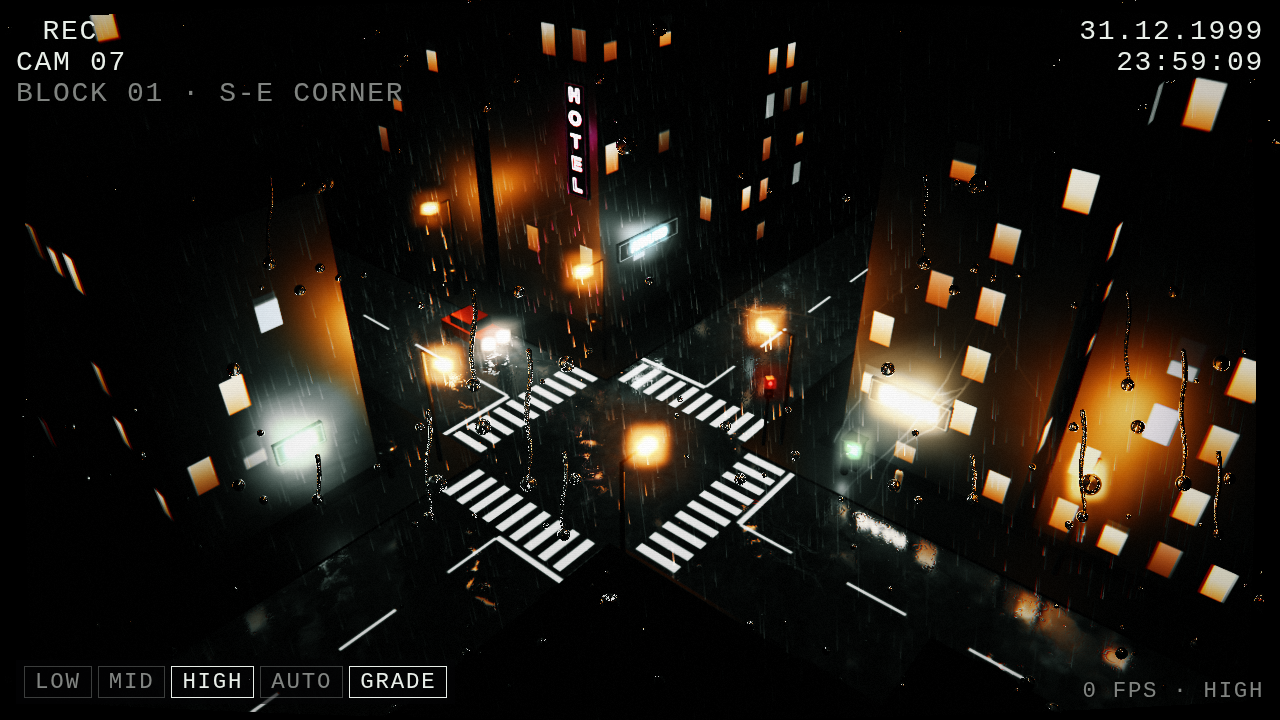
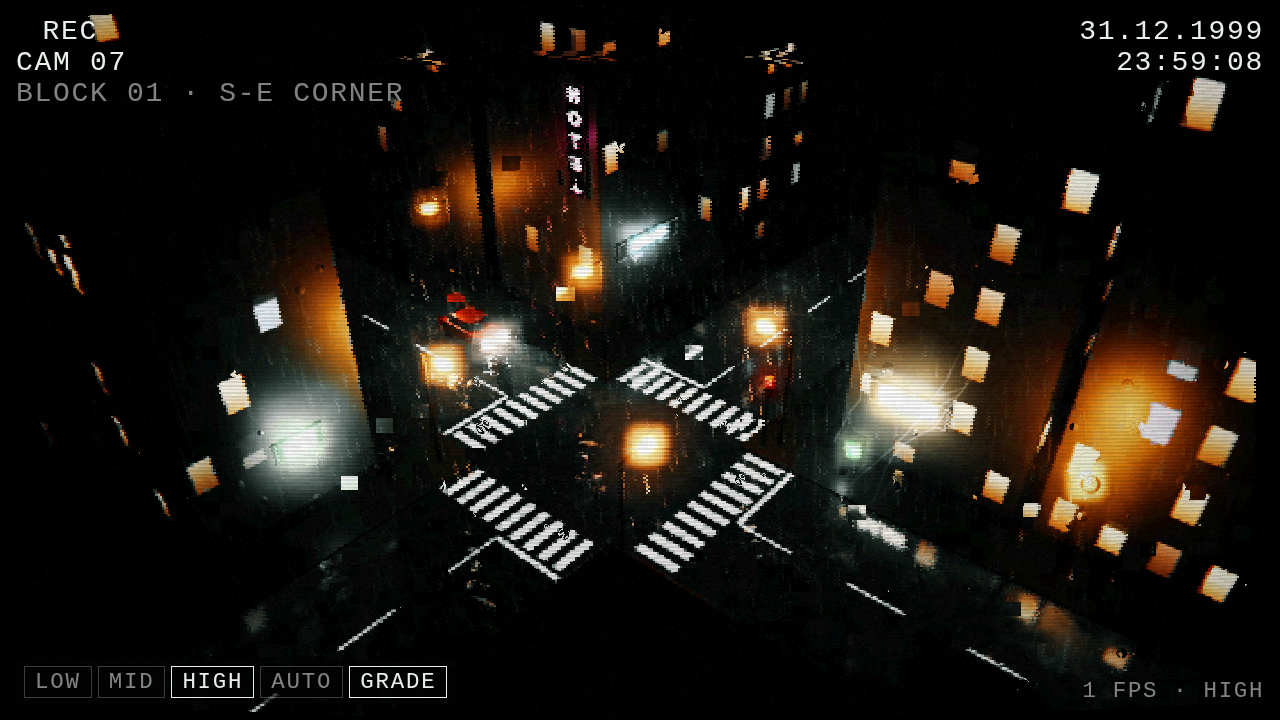
CCTV recording look: interlacing, compression, 12.5 fps capture
- Camera pass samples a low-resolution interlaced signal with field
  offsets, quarter-resolution chroma, 8x8 block banding, displaced
  macroblocks and occasional sync tears
- The world advances only when the camera takes a frame (12.5 fps)
- Recording settings live in each camera's lens profile
- .gitignore for .DS_Store

Claude-Session: https://claude.ai/code/session_01EPP8rjPqCxLECawcDBtEjj

diff --git a/client/src/engine/pipeline.js b/client/src/engine/pipeline.js
@@ -27,6 +27,12 @@ const CameraShader = {
     uDrops: { value: 1.0 },
     uNoise: { value: 0.35 },
     uGrade: { value: 1.0 },
+    // The recording: resolution, interlaced field, compression, glitches.
+    uVideoRes: { value: new THREE.Vector2(640, 400) },
+    uField: { value: 0 },
+    uFrame: { value: 0 },
+    uCompress: { value: 0.8 },
+    uGlitch: { value: 1.0 },
   },
   vertexShader: /* glsl */ `
     varying vec2 vUv;
@@ -35,7 +41,8 @@ const CameraShader = {
   fragmentShader: /* glsl */ `
     uniform sampler2D tDiffuse, tBloom, tDirt, tDrops;
     uniform float uTime, uAspect, uExposure, uBarrel, uAberration, uDirt, uDrops, uNoise, uGrade;
-    uniform vec2 uRes;
+    uniform vec2 uRes, uVideoRes;
+    uniform float uField, uFrame, uCompress, uGlitch;
     varying vec2 vUv;
 
     float hash12(vec2 p) {
@@ -71,12 +78,38 @@ const CameraShader = {
         uv -= clamp(slope, -0.25, 0.25) * 0.05 * uDrops;
       }
 
-      // 3. Colour fringing towards the edges.
+      // 3. The signal. What reaches you is a cheap recording: few lines,
+      // interlaced fields, 8x8 compression blocks, and a tape that tears.
+      vec2 px = floor(uv * uVideoRes);
+      float odd = mod(px.y + uField, 2.0);
+      vec2 vuv = (px + 0.5) / uVideoRes;
+      // Fields don't line up: every other line sits a little to the side.
+      vuv.x += odd * (0.6 + (hash12(vec2(px.y, uFrame)) - 0.5) * 0.8) / uVideoRes.x;
+      // Now and then a band of lines loses sync and slides.
+      float tear = step(0.985, hash12(vec2(floor(px.y / 7.0), uFrame)));
+      vuv.x += tear * (hash12(vec2(px.y * 0.1, uFrame + 3.0)) - 0.3) * 0.03 * uGlitch;
+      // A few macroblocks arrive from the wrong place.
+      vec2 blk = floor(px / 8.0);
+      float bad = step(1.0 - 0.01 * uGlitch, hash12(blk + fract(uFrame * 0.618) * 97.0));
+      vec2 jump = bad * (vec2(hash12(blk + 3.1), hash12(blk + 7.3)) - 0.5) * 0.08;
+      vuv += jump;
+      uv = vuv;
+
+      // Colour fringing towards the edges.
       vec2 ca = c * uAberration * (0.4 + 3.0 * r2);
       vec3 col;
       col.r = texture2D(tDiffuse, uv + ca).r;
       col.g = texture2D(tDiffuse, uv).g;
       col.b = texture2D(tDiffuse, uv - ca).b;
+
+      // Chroma is stored at a quarter of the resolution, so colour bleeds
+      // in blocks past the edges of neon and tail lights.
+      vec2 cuv = (floor(px / 4.0) * 4.0 + 2.0) / uVideoRes + jump;
+      vec3 chromaSrc = texture2D(tDiffuse, cuv).rgb;
+      float yFine = dot(col, vec3(0.2126, 0.7152, 0.0722));
+      float yCoarse = dot(chromaSrc, vec3(0.2126, 0.7152, 0.0722));
+      vec3 bled = chromaSrc * min(yFine / max(yCoarse, 1e-4), 4.0);
+      col = mix(col, bled, 0.8 * uCompress);
 
       // 4. Dirt lights up only where the glow falls on it.
       vec3 bloom = texture2D(tBloom, uv).rgb;
@@ -115,11 +148,16 @@ const CameraShader = {
         col = graded;
       }
 
-      // 7. The camera's own electronics.
+      // 7. Compression: banding, and blocks that don't quite agree.
+      float levels = mix(96.0, 22.0, uCompress);
+      col = floor(col * levels + hash12(blk + 0.5) * 0.6) / levels;
+      col *= 1.0 + (hash12(blk + floor(uFrame * 0.25)) - 0.5) * 0.05 * uCompress;
+
+      // 8. The camera's own electronics.
       float t = uTime;
-      float grain = hash12(gl_FragCoord.xy + fract(t * 7.13) * 491.0) - 0.5;
-      col += grain * 0.07 * uNoise;
-      col *= 1.0 - 0.06 * uNoise * (0.5 + 0.5 * sin(gl_FragCoord.y * 3.14159));
+      float grain = hash12(px + fract(uFrame * 0.137) * 491.0) - 0.5;
+      col += grain * 0.08 * uNoise;
+      col *= mix(1.0, 0.8, odd * uNoise * 1.6);
       float band = smoothstep(0.0, 0.04, abs(fract(vUv.y + t * 0.07) - 0.5) - 0.02);
       col *= mix(1.04, 1.0, band);
       col *= 1.0 - 0.55 * pow(length(c * vec2(1.0, 0.85)) * 1.25, 2.4);
@@ -173,6 +211,11 @@ export class Pipeline {
     cam.uniforms.uDrops.value = tier.drops ? lens.drops : 0;
     cam.uniforms.uNoise.value = lens.noise;
     cam.uniforms.uGrade.value = this.grade ? 1 : 0;
+    const lines = lens.lines ?? 400;
+    // CCTV pixels are wider than they are tall.
+    cam.uniforms.uVideoRes.value.set(Math.round(lines * (width / height) * 0.8), lines);
+    cam.uniforms.uCompress.value = lens.compression ?? 0.8;
+    cam.uniforms.uGlitch.value = lens.glitch ?? 1.0;
     composer.addPass(cam);
 
     this.composer = composer;
@@ -184,8 +227,12 @@ export class Pipeline {
     if (this.cameraPass) this.cameraPass.uniforms.uGrade.value = on ? 1 : 0;
   }
 
-  render(time) {
-    this.cameraPass.uniforms.uTime.value = time;
+  // frame: the camera's frame counter. Each frame is one interlaced field.
+  render(time, frame) {
+    const u = this.cameraPass.uniforms;
+    u.uTime.value = time;
+    u.uFrame.value = frame;
+    u.uField.value = frame % 2;
     this.composer.render();
   }
 }

diff --git a/client/src/main.js b/client/src/main.js
@@ -125,12 +125,23 @@ let last = performance.now();
 let fpsAcc = 0;
 let fpsFrames = 0;
 
+// The camera records at its own frame rate (12.5 fps for cheap CCTV).
+// The world only moves when the camera takes a frame, and the GPU rests
+// in between, which also makes the choppy look nearly free.
+const fps = cam.lens.fps ?? 12.5;
+let lastFrame = -1;
+
 function frame(now) {
   const dt = now - last;
   last = now;
   const time = (now - t0) / 1000;
-  world.update(time, renderer.domElement.height);
-  pipeline.render(time);
+  const n = Math.floor(time * fps);
+  if (n !== lastFrame) {
+    lastFrame = n;
+    const shot = n / fps;
+    world.update(shot, renderer.domElement.height);
+    pipeline.render(shot, n);
+  }
   osd(time);
 
   autoQ.frame(dt, tierName);

diff --git a/client/src/world/block01.js b/client/src/world/block01.js
@@ -91,6 +91,10 @@ export const BLOCK_01 = [
       position: [25, 30, 27],
       target: [-4, 1, -7],
       fov: 46,
-      lens: { barrel: 0.08, dirt: 1.0, noise: 0.35, aberration: 0.0022, drops: 1.0, crack: true, seed: 5 },
+      lens: {
+        barrel: 0.08, dirt: 1.0, noise: 0.35, aberration: 0.0022, drops: 1.0, crack: true, seed: 5,
+        // The recording: 400 lines, 12.5 fps, heavily compressed.
+        lines: 400, fps: 12.5, compression: 0.8, glitch: 1.0,
+      },
     } },
 ];

diff --git a/docs/VISUALS.md b/docs/VISUALS.md
@@ -21,6 +21,10 @@ That makes every flaw in the image part of the fiction, not a filter:
 
 **Bleach bypass, with a nod to Sin City.** The image is graded as if the silver was never washed out of the print: desaturated, high contrast, crushed blacks, hard highlights. The rule that makes it Sin City is **light keeps its colour**. Neon, lit windows, headlights, and the lamp glow in the rain stay in colour. Everything they fall on goes almost monochrome. One saturated red survives outside the lights too, reserved for things the game wants you to notice (the car you're about to steal, for a start).
 
+**A bad recording.** What reaches the player is not the camera's image but its cheap recording, and it looks like one: about 400 lines with pixels wider than they are tall, interlaced fields whose lines don't quite agree, colour stored at a quarter of the resolution so neon and tail lights bleed in blocks, 8x8 compression blocks with banding in the dark, now and then a macroblock that arrives from the wrong part of the frame, and a band of lines that loses sync and slides. The camera records at 12.5 frames per second, so the world moves in steps. The GPU also rests between frames, which makes the choppy look almost free.
+
+Every camera sets its own recording in its lens profile (`lines`, `fps`, `compression`, `glitch`), so a bank camera can be clean and smooth while a back-street one is a smear.
+
 **Warm against cool.** The base is a cold green-cyan night in the tint of the Matrix, with sodium streetlights turning sickly. Against it, a slightly sweeter 90s: tungsten light spilling from windows, magenta and amber neon.
 
 **Rain and night everywhere.** Wet streets double every light source for free, and darkness hides low detail. Most of the budget goes into light, which is cheap in a browser if you fake it well. It is always night because nobody has ever written daylight (see [`LORE.md`](LORE.md)).
